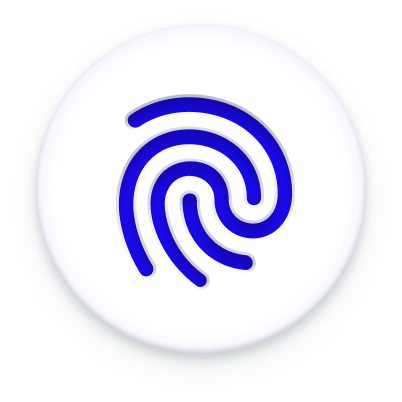
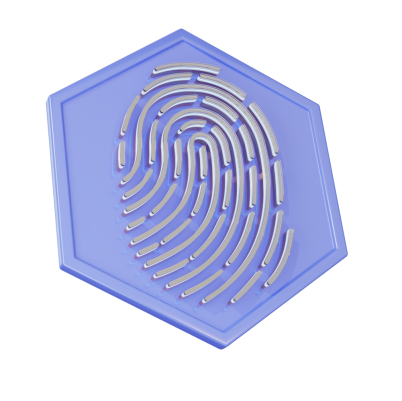
feat(@desktop/onboarding): Update Biometrics screen text and image, hide back button
Closes #5602

diff --git a/ui/app/AppLayouts/Onboarding/views/TouchIDAuthView.qml b/ui/app/AppLayouts/Onboarding/views/TouchIDAuthView.qml
@@ -18,7 +18,10 @@ OnboardingBasePage {
     id: root
 
     property string userPass
-    signal genKeysDone();
+
+    signal genKeysDone()
+
+    backButtonVisible: false
 
     Item {
         id: container
@@ -63,7 +66,7 @@ OnboardingBasePage {
             anchors.top: txtTitle.bottom
             anchors.topMargin: Style.current.padding
             color: Style.current.secondaryText
-            text: qsTrId("Would you like to use your TouchID to login to Status?")
+            text: qsTrId("Would you like to use your Touch ID to login to Status?")
             horizontalAlignment: Text.AlignHCenter
             wrapMode: Text.WordWrap
             font.pixelSize: 15
@@ -76,7 +79,7 @@ OnboardingBasePage {
             StatusButton {
                 id: button
                 Layout.alignment: Qt.AlignHCenter
-                text: qsTr("Yes, use TouchID ")
+                text: qsTr("Yes, use Touch ID")
                 onClicked: {
                     OnboardingStore.accountSettings.storeToKeychainValue = Constants.storeToKeychainValueStore;
                     dimBackground.active = true;
@@ -87,7 +90,7 @@ OnboardingBasePage {
                 id: keycardLink
                 Layout.alignment: Qt.AlignHCenter
                 color: Theme.palette.primaryColor1
-                text: qsTr("I prefer to use my PIN")
+                text: qsTr("I prefer to use my password")
                 MouseArea {
                     anchors.fill: parent
                     cursorShape: Qt.PointingHandCursor

diff --git a/ui/app/AppLayouts/Onboarding/controls/OnboardingBasePage.qml b/ui/app/AppLayouts/Onboarding/controls/OnboardingBasePage.qml
@@ -7,6 +7,9 @@ import utils 1.0
 
 Page {
     id: root
+
+    property alias backButtonVisible: backButton.visible
+
     signal exit()
     signal backClicked()
 
@@ -15,6 +18,7 @@ Page {
     }
 
     StatusRoundButton {
+        id: backButton
         anchors.left: parent.left
         anchors.leftMargin: Style.current.padding
         anchors.bottom: parent.bottom

diff --git a/ui/app/AppLayouts/Onboarding/views/GenKeyView.qml b/ui/app/AppLayouts/Onboarding/views/GenKeyView.qml
@@ -87,7 +87,6 @@ OnboardingBasePage {
         }
         TouchIDAuthView {
             userPass: d.newPassword
-            onBackClicked: { gotoKeysStack(GenKeyView.KeysStack.CONFRIM_PWD) }
             onGenKeysDone: { root.keysGenerated() }
         }
     }
